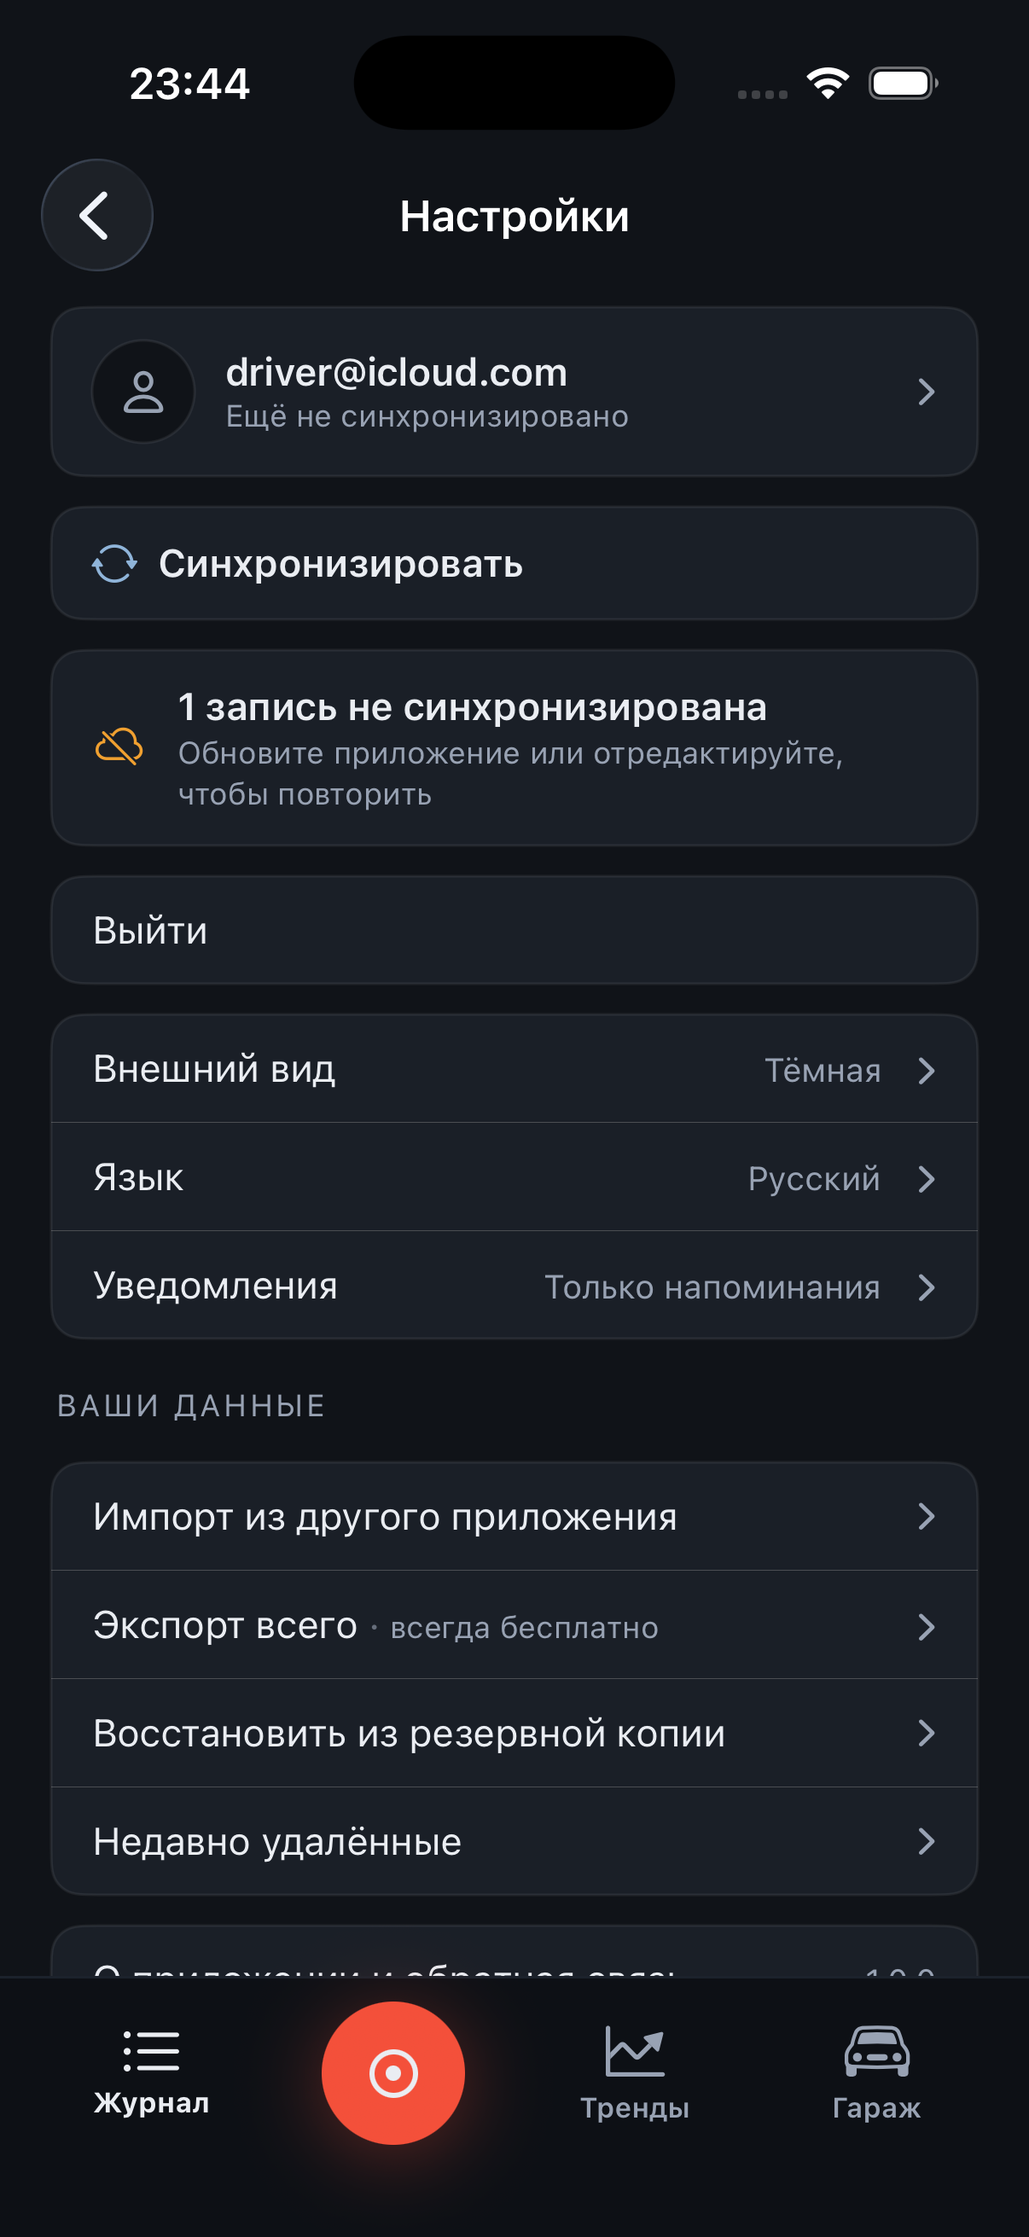
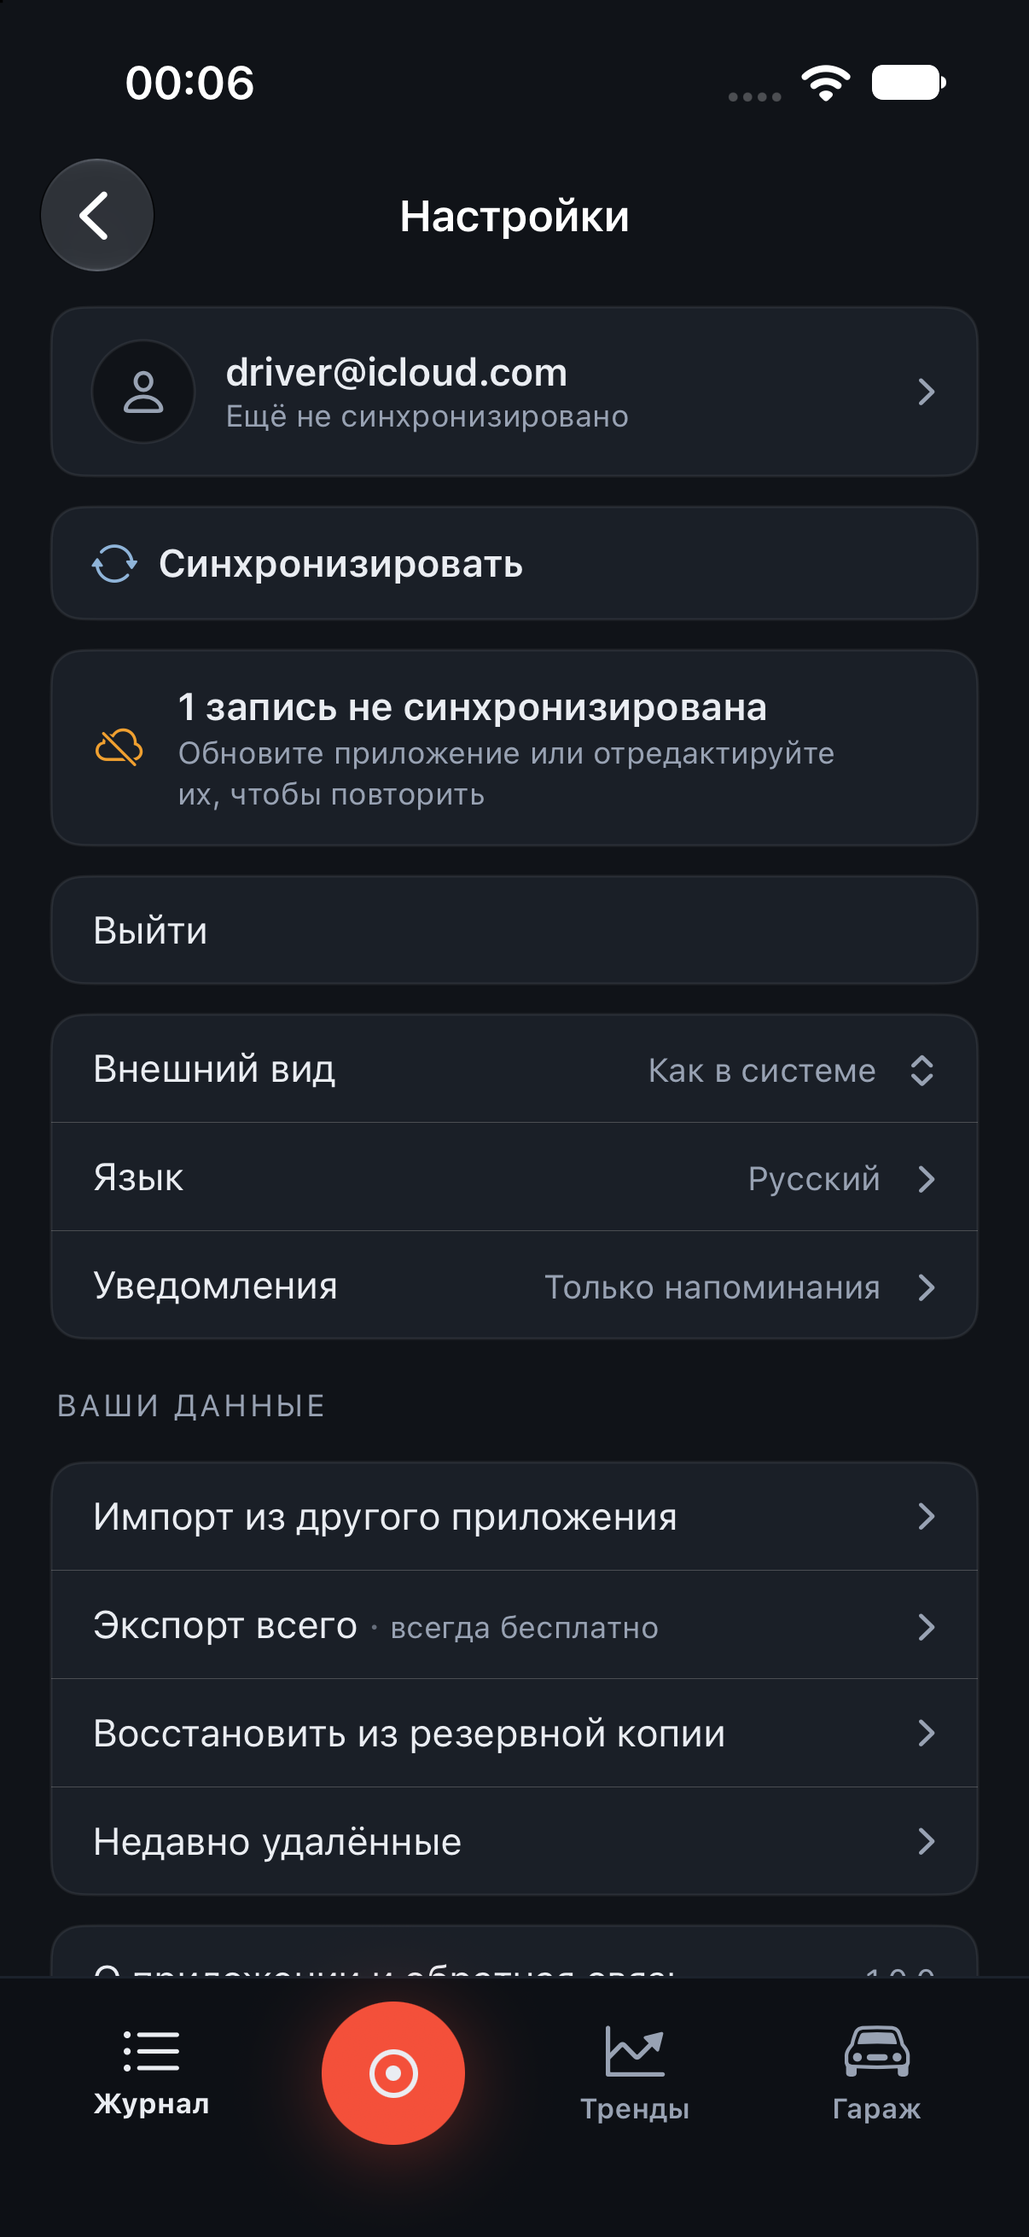
RV.316: the Appearance row is a real control - Match the system, Dark or Light; and the Russian rejected-sync hint gets its object back
Product owner, 2026-09-27: "I can't switch a theme in the settings app. The
control is not actionable". The row was a placeholder showing "Dark" with a
chevron and no action, while the app followed the system theme.

AppearancePreference (system / dark / light, @AppStorage, default system)
with a menu on the row. AppearanceScheme applies .preferredColorScheme
inside AppRootView: a first version on the App re-evaluated the scene on
change, rebuilt AppRootView, and tripped AppRates.configure's run-once
assertion (the UI test caught the crash). New strings EN + RU.

SettingsUITests had been red since RV.284 on the Russian hint, which read
"отредактируйте, чтобы повторить" with no object where the English says
"edit them". Corrected to "отредактируйте их".

Checks: SettingsUITests 27/27 (the new appearance test 3/3), LanguageSettings
UI suite green, app unit bundle 315/0, lint 0, screenshots
RV.316-settings-appearance-light{,-ru} and RV.284-settings-rejected-ru
opened. The Notifications row is still a placeholder (flagged on the row).

diff --git a/ios/App/Sources/Settings/AppearancePreference.swift b/ios/App/Sources/Settings/AppearancePreference.swift
@@ -1,0 +1,80 @@
+import SwiftUI
+import TankbookCore
+
+/// The user's theme choice (Settings -> Appearance). `system` follows iOS's
+/// own light/dark setting and is the default; `dark` and `light` pin the
+/// app's theme whatever the system says. Per device, like the language.
+enum AppearancePreference: String, CaseIterable, Identifiable {
+    case system
+    case dark
+    case light
+
+    /// The `UserDefaults` key the choice lives under (`@AppStorage`). A launch
+    /// argument `-tankbook.appearance light` overrides it for a UI test or a
+    /// screenshot.
+    static let storageKey = "tankbook.appearance"
+
+    var id: String { rawValue }
+
+    /// The scheme the window is pinned to; nil follows the system.
+    var colorScheme: ColorScheme? {
+        switch self {
+        case .system: nil
+        case .dark: .dark
+        case .light: .light
+        }
+    }
+
+    var label: LocalizedStringKey {
+        switch self {
+        case .system: "Match the system"
+        case .dark: "Dark"
+        case .light: "Light"
+        }
+    }
+}
+
+/// Pins the window to the user's theme choice. Applied inside `AppRootView`,
+/// never on the `App`: a stored value read there re-evaluates the scene on
+/// every change and constructs the root view again, whose `init` does one-time
+/// setup.
+struct AppearanceScheme: ViewModifier {
+    @AppStorage(AppearancePreference.storageKey) private var appearance = AppearancePreference.system
+
+    func body(content: Content) -> some View {
+        content.preferredColorScheme(appearance.colorScheme)
+    }
+}
+
+/// The Settings row: the current choice, and a menu of the three.
+struct AppearanceRow: View {
+    @Binding var selection: AppearancePreference
+
+    var body: some View {
+        Menu {
+            Picker("Appearance", selection: $selection) {
+                ForEach(AppearancePreference.allCases) { option in
+                    Text(option.label).tag(option)
+                }
+            }
+        } label: {
+            HStack(alignment: .firstTextBaseline, spacing: 12) {
+                Text("Appearance")
+                    .font(.subheadline)
+                    .foregroundStyle(Theme.Palette.ink)
+                Spacer(minLength: 8)
+                Text(selection.label)
+                    .font(.footnote)
+                    .foregroundStyle(Theme.Palette.inkSoft)
+                    .accessibilityIdentifier("settingsAppearanceValue")
+                Image(systemName: "chevron.up.chevron.down")
+                    .font(.caption.weight(.semibold))
+                    .foregroundStyle(Theme.Palette.inkSoft)
+            }
+            .padding(.horizontal, 16)
+            .padding(.vertical, 12)
+            .contentShape(Rectangle())
+        }
+        .accessibilityIdentifier("settingsAppearanceRow")
+    }
+}

diff --git a/ios/App/UITests/SettingsUITests.swift b/ios/App/UITests/SettingsUITests.swift
@@ -58,6 +58,30 @@ final class SettingsUITests: XCTestCase {
                       "the guest account card offers sign-in")
     }
 
+    /// The Appearance row is a control, not a label: it opens a menu of Match
+    /// the system / Dark / Light, the choice shows on the row, and it survives a
+    /// relaunch. It used to be a static "Dark" with a chevron that did nothing.
+    func testAppearanceRowChangesTheThemeAndRemembersIt() {
+        let app = launchSettings(seed: "-seedSettingsGuest")
+        let row = app.buttons["settingsAppearanceRow"]
+        XCTAssertTrue(row.waitForExistence(timeout: 10))
+        row.tap()
+        let light = app.buttons["Light"]
+        XCTAssertTrue(light.waitForExistence(timeout: 5), "the row opens the theme menu")
+        light.tap()
+        XCTAssertEqual(app.staticTexts["settingsAppearanceValue"].label, "Light")
+
+        let relaunched = launchSettings(seed: "-seedSettingsGuest")
+        let value = relaunched.staticTexts["settingsAppearanceValue"]
+        XCTAssertTrue(value.waitForExistence(timeout: 10))
+        XCTAssertEqual(value.label, "Light", "the choice survives a relaunch")
+
+        // Leave the device on the default for the tests that follow.
+        relaunched.buttons["settingsAppearanceRow"].tap()
+        relaunched.buttons["Match the system"].tap()
+        XCTAssertEqual(relaunched.staticTexts["settingsAppearanceValue"].label, "Match the system")
+    }
+
     func testSyncedShowsReassuranceStatus() {
         let app = launchSettings(seed: "-seedSettingsSynced")
         let status = syncStatus(app)

diff --git a/ios/App/Sources/Settings/SettingsView.swift b/ios/App/Sources/Settings/SettingsView.swift
@@ -24,6 +24,7 @@ struct SettingsView: View {
     @State private var isExporting = false
     @State private var exportFailure: ExportFailure?
     @State private var showsLanguagePicker = false
+    @AppStorage(AppearancePreference.storageKey) private var appearance = AppearancePreference.system
     @State private var languageStore = LanguagePreferenceStore()
     @State private var selectedLanguage: String?
 
@@ -266,7 +267,7 @@ struct SettingsView: View {
 
     private var preferencesCard: some View {
         VStack(spacing: 0) {
-            valueRow("Appearance", value: "Dark", identifier: "settingsAppearanceRow")
+            AppearanceRow(selection: $appearance)
             CardDivider()
             languageRow
             CardDivider()

diff --git a/ios/App/Sources/Navigation/TabRoots.swift b/ios/App/Sources/Navigation/TabRoots.swift
@@ -273,7 +273,9 @@ struct AppRootView: View {
             .accessibilityHidden(!isActive)
     }
 
-    var body: some View {
+    var body: some View { rootContent.modifier(AppearanceScheme()) }
+
+    private var rootContent: some View {
         Group {
             if showWelcome {
                 // Onboarding owns the screen until a car exists or a session

diff --git a/docs/TASKS-DONE.md b/docs/TASKS-DONE.md
@@ -692,6 +692,7 @@ hardware. `RV.1`-`RV.5`, `RV.7`-`RV.9` and `RV.11`-`RV.16` are fixed; `RV.10`, `
 | **[x]** RV.311 | (J3 receipt capture; F2 scan recognised WRONG data) **The receipt parser pre-fills a grand total Vision misread ("08,19 EUR" for "88,19 EUR", confidence 1.0) while the same amount appears three more times on the receipt.** Found 2026-09-27 in case 6JFJ1-4JRYX: five shots of one Circle K receipt in 6 s. Four came out right (46.81 L, 1.884, 88.19). In scan 3 Vision also misread the litres (`45,81l`), the parser dropped them, and so the cross-check was `notApplicable` and the total 8.19 reached the form **without a warning**. Replaying the phone's own OCR lines through `FuelExtractor` on `HEAD` gives the same 8.19. Scan 2 lost the litres line entirely (Vision `16.` at 0.5) and degraded honestly: price and total right, litres empty. **What to build**: when the EUR-suffixed grand-total line disagrees with an amount the receipt repeats (line total, VAT base plus VAT, card slip), prefer the repeated amount or abstain on the total; and a total whose implied litres (total / price) is implausible for any tank should not pre-fill silently. Measure on the receipt corpus first (`CorpusAccuracyGateTests`, iOS 27 simulator). The receipt is in the corpus as `receipt-099`, and the phone's OCR lines for all five shots are the fixture `Spike/ReceiptSpike/fixtures/device-ocr/receipt-099-shots.json` (the simulator's Vision does not reproduce a device misread). **Routing:** the orchestrator. | A test over that fixture's shot 3 where the total is 88.19 or abstains, never 8.19; `scripts/vision-suites.sh CorpusAccuracyGateTests` shows no receipt regression and the high-water mark holds || **Done 2026-09-27.** In `resolveTotal`'s unresolved-litres branch, a lone uncorroborated labelled total abstains when the receipt prints a larger amount on two or more standalone lines (`hasRepeatedLargerAmount`, which reads Vision's split `88, 19` as the amount). VAT and its base sit below the total, so they never count. `RV311DeviceOCRTotalTests` over the phone's own OCR fixture: shot 3 no longer pre-fills 8.19 (red before the change); shots 1, 2, 4 and 5 are unchanged. Receipt corpus on the iOS 27 simulator unchanged at the marks: L5 357/483, through compression 354/483, RV.56 zero confident-wrong totals, pairs and pump 136/186 held. |
 | **[x]** RV.289 | (J4 pump display through the cloud; F2) **The `pump` kind shares the receipt prompt and the model misreads a seven-segment display.** Same photograph as [RV.288]: `LlmPrompts.Document("pump")` names *"a fuel pump display"* and `AllowedFields` hands it the receipt vocabulary (`backend/src/Tankbook.Api/Llm/LlmPrompts.cs:62-84`) and nothing else - no layout hint, so **0025,60** (litres, second line) came back as 0.56 and **0050,02** (amount, top line) as 0.00. The ledger row for this call holds the exact response (`llm_calls`, direct DB read - the ledger has no endpoint by design) - **owner: paste it into this row** before a brief is written. **Evidence found 2026-09-19 (RV.290's check): the app never sends `kind: "pump"`** - the fill-up capture's one `/extract` call site sends `kind: "receipt"` (`ManualFillUpView.swift:450`; the pipeline processes every fill-up as `.receipt`, the pump mode ships off), so the pump prompt this row describes was not the prompt that read the owner's display: the model was told it was reading a fuel receipt. Read the ledger row's request `kind` first; if it says `receipt`, the fix starts at the capture (a dispenser photo must be sent as what it is), not at the prompt. A pump display is a different document from a receipt: leading zeros, comma decimals, the amount ABOVE the volume on most European dispensers, the unit price on its own small display, no station name and no date | **Decide-then-do**: (1) read the ledger response - if the model returned the right digits and the client decoded them wrong, this is a core defect and [RV.288]'s file; (2) otherwise a pump-specific prompt in `LlmPrompts`: name the three displays, their order, the leading zeros and the comma, and tell the model to return `null` for a field it cannot read rather than a guess; (3) the corpus already holds nine Circle K displays (registered 2026-09-13/14) - register this photograph as a tenth with its three asserted cells, and add an **on-demand L5 sweep of the corpus's pump images through the live provider** (the OCR corpus has one, `EXTRACTION.md`; the gateway has none), so the prompt change is measured, not felt. No PII in the photo (a dispenser, kiwa seals, a QR) | L2 `LlmPromptsTests`: the `pump` prompt names the display layout and the null rule; the corpus row-count pin updated; the L5 sweep script exists, is documented in `TESTING.md`, and its first run's hit count is recorded as the ratchet's floor. **Vacuous trap**: testing the prompt string contains the word "pump" || **Done 2026-09-27 (the prompt).** `LlmPrompts.PumpInstruction` names the three numbers and where they sit, the leading-zero padding and the comma decimal, keeps grade price boards out of the price, and forbids deriving a number. The pump kind asks only for `total, volume, unitPrice, currency`. `LlmPromptsTests.PumpPromptNamesTheDisplayLayoutAndAsksForNoReceiptFields`; backend build, format and tests 0. API.md carries the compatible verdict against build 1368. The live-provider sweep and the ledger read need the gateway key and are RV.315. |
 | **[x]** RV.313 | (F1 "Send this scan" report stage; F2 report stage; AD.11) **A diagnostics send dies when the app leaves the foreground, with nothing to say so.** Found 2026-09-27 in case 6JFJ1-4JRYX's log: two `POST /v1/cases` uploads (10.3 MB and 7.1 MB) were in flight when the app went inactive and background. Neither ever got a response line, and the tester sent again. A 7-13 MB case over mobile takes 15-30 s, long enough for a user to switch apps. **What to build**: run the upload in a background `URLSession` upload task, or at least inside `beginBackgroundTask`, so it survives backgrounding. If the upload is cut anyway, the send screen says so on return and offers to resend (hard rule 7), rather than leaving an id-less limbo. RV.312 makes the cut visible in the log. **Routing:** the orchestrator. | An app-target test with a transport that suspends mid-upload: the send reports the failure and offers a retry; on a device, a send survives pressing Home (the tester's check, recorded here) || **Done 2026-09-27.** `DiagnosticsCaseModel.submit` runs the upload on iOS's background grace (`BackgroundGrace`, production `UIKitBackgroundGrace` with `background.task.expired` logged). When the grace runs out, the upload is cancelled and the sheet shows `DebugCaseError.interrupted`: "The send stopped when the app left the screen – send again." (RU included, ERRORS.md row). `DiagnosticsCaseSendTests` (2); **mutation:** dropping the interrupted mapping turns the first red. The app test target now compiles `EXPERIMENTS` in Debug; before, the file compiled to zero tests. Screenshots `RV.313-send-diagnostics-interrupted{,-ru}.png`. |
+| **[x]** RV.316 | no-scenario: a Settings control that did nothing **The Appearance row showed "Dark" with a chevron and was not a control.** Reported by the product owner 2026-09-27: *"I can't switch a theme in the settings app. The control is not actionable"*. The row was `valueRow("Appearance", value: "Dark")`, a placeholder whose destination was "another task" never filed. It also claimed Dark while the app followed the system. | **Done 2026-09-27.** `AppearancePreference` (system / dark / light, `@AppStorage("tankbook.appearance")`, default system) and `AppearanceRow`, a menu on the row. The choice is applied by `.preferredColorScheme` in `AppRootView.body`, not on the `App`: a first version put it on the `App`, where a change re-evaluated the scene, rebuilt `AppRootView`, and ran `AppRates.configure` twice, an assertion crash the UI test caught. `SettingsUITests.testAppearanceRowChangesTheThemeAndRemembersIt` (the menu opens, the choice shows, it survives a relaunch). New strings "Light" / "Светлая" and "Match the system" / "Как в системе". Screenshots `RV.316-settings-appearance-light{,-ru}.png`. **Also fixed:** the Settings UI suite had one deterministic red, `testRejectedRendersRussianCountAndNextStep`, since RV.284. The Russian hint dropped the object ("отредактируйте, чтобы повторить"), where the English says "edit them" and the test expects "отредактируйте их". The catalog is corrected and `RV.284-settings-rejected-ru.png` re-shot; SettingsUITests 27/27. **Not fixed, flagged:** the Notifications row below it is the same kind of placeholder ("Reminders only" with a chevron and no action). |
 
 ## OB · Observability **[v1.0.x]** - the device can say what it did
 

diff --git a/docs/DESIGN.md b/docs/DESIGN.md
@@ -200,7 +200,7 @@ All three degrade to crossfades under Reduce Motion.
 - **Trends (chosen: tile grid)** is four sparkline stat tiles (consumption, cost/km, monthly spend, price/L), the household EV-vs-petrol comparison card, and insight cards below. Charts follow the same palette; no chart junk, thin `inkSoft` grid, `taillight`/`headlight` series only.
   - **A rate-pending month is a GAP in the spend and cost/km charts (RV.112, decided 2026-09-08).** A month whose rows are still waiting on a rate has no exact total, so the monthly series plot a point ONLY for a `.complete` month - a `.partial` month is not drawn at its known-so-far sum and a `.pending` month is not drawn at zero, because both read as "spend fell", which is a chart that lies (hard rule 2). A month whose known figures span home currencies (`.mixed`, RV.145) is a hole for the same reason - no single value exists to plot. Each unstateable month occupies a slot that renders as a HOLE: the line chart breaks its path there (it never bridges the gap with a straight line) and the bar chart leaves the slot empty without shifting its neighbours. A gap reads as "unknown", which is the truth; the F9 footnote carries the pending phrase. A tile whose current-month figure is `.pending` prints no number at all - it is omitted like any other data-hungry vital, never a `0 €`.
   - **The F9a timeline-neighbourhood chart (RV.117b, [v1.1], decided 2026-09-09).** The card under Edit entry's odometer conflict plots the entry's odometer-bearing neighbours with the offending point off the trend through the valid ones (the Drivvo presentation, `docs/COMPETITORS.md`). Rules, all shared with the sparkline: **no chart junk** (a thin `inkSoft` baseline and two quiet third-rules only), **x is the entries' real dates** (proportional spacing - never invented equal slots), y their readings, **amber is attention** - the offending point is `warn`, the neighbours quiet `inkSoft` context (this is not a taillight/headlight series, so the series-colour rule does not apply here). **Colour is never the only channel** (accessibility floor): the offending point is a larger `warn` diamond with an ink stroke while neighbours are small ink circles, and every point is its own accessibility element ("This entry" vs "Neighbouring entry", each with its reading and day as the value). The card's figures are **DIN with tabular alignment** (hard rule 6); the interval sentences beneath are SF copy - numbers inside a full localised sentence are copy, the same precedent as the F9a quote. The whole card renders only while the entry flags and has a `validRange`; a clean entry or one without an odometer shows no panel and no empty box.
-- **Settings** opens from the gear in the tab-root header on each of the three tab roots (Log, Trends, Garage – never a fifth tab; the tab bar stays task-focused): account/sync status, appearance, language, notifications, data (import / export-always-free / recently deleted), Pro, and About & feedback. Per-car settings (currency, units, tank size) live on each car in the Garage, not here.
+- **Settings** opens from the gear in the tab-root header on each of the three tab roots (Log, Trends, Garage – never a fifth tab; the tab bar stays task-focused): account/sync status, appearance (a menu: **Match the system** - the default - **Dark** or **Light**, pinning the whole window; per device, RV.316), language, notifications, data (import / export-always-free / recently deleted), Pro, and About & feedback. Per-car settings (currency, units, tank size) live on each car in the Garage, not here.
 - Screen sources live in `design/screens/` (.dc.html per screen); web mockups use Archivo (condensed, variable width) as the DIN stand-in – the shipped app uses the real DIN faces bundled with iOS.
 - Cards use 12pt corner radius, 1px hairline border (`ink` at 8%), flat – no shadows in dark theme, faint shadow in light.
 - Spacing grid: 4pt base; screen margins 20pt; card padding 16pt.
